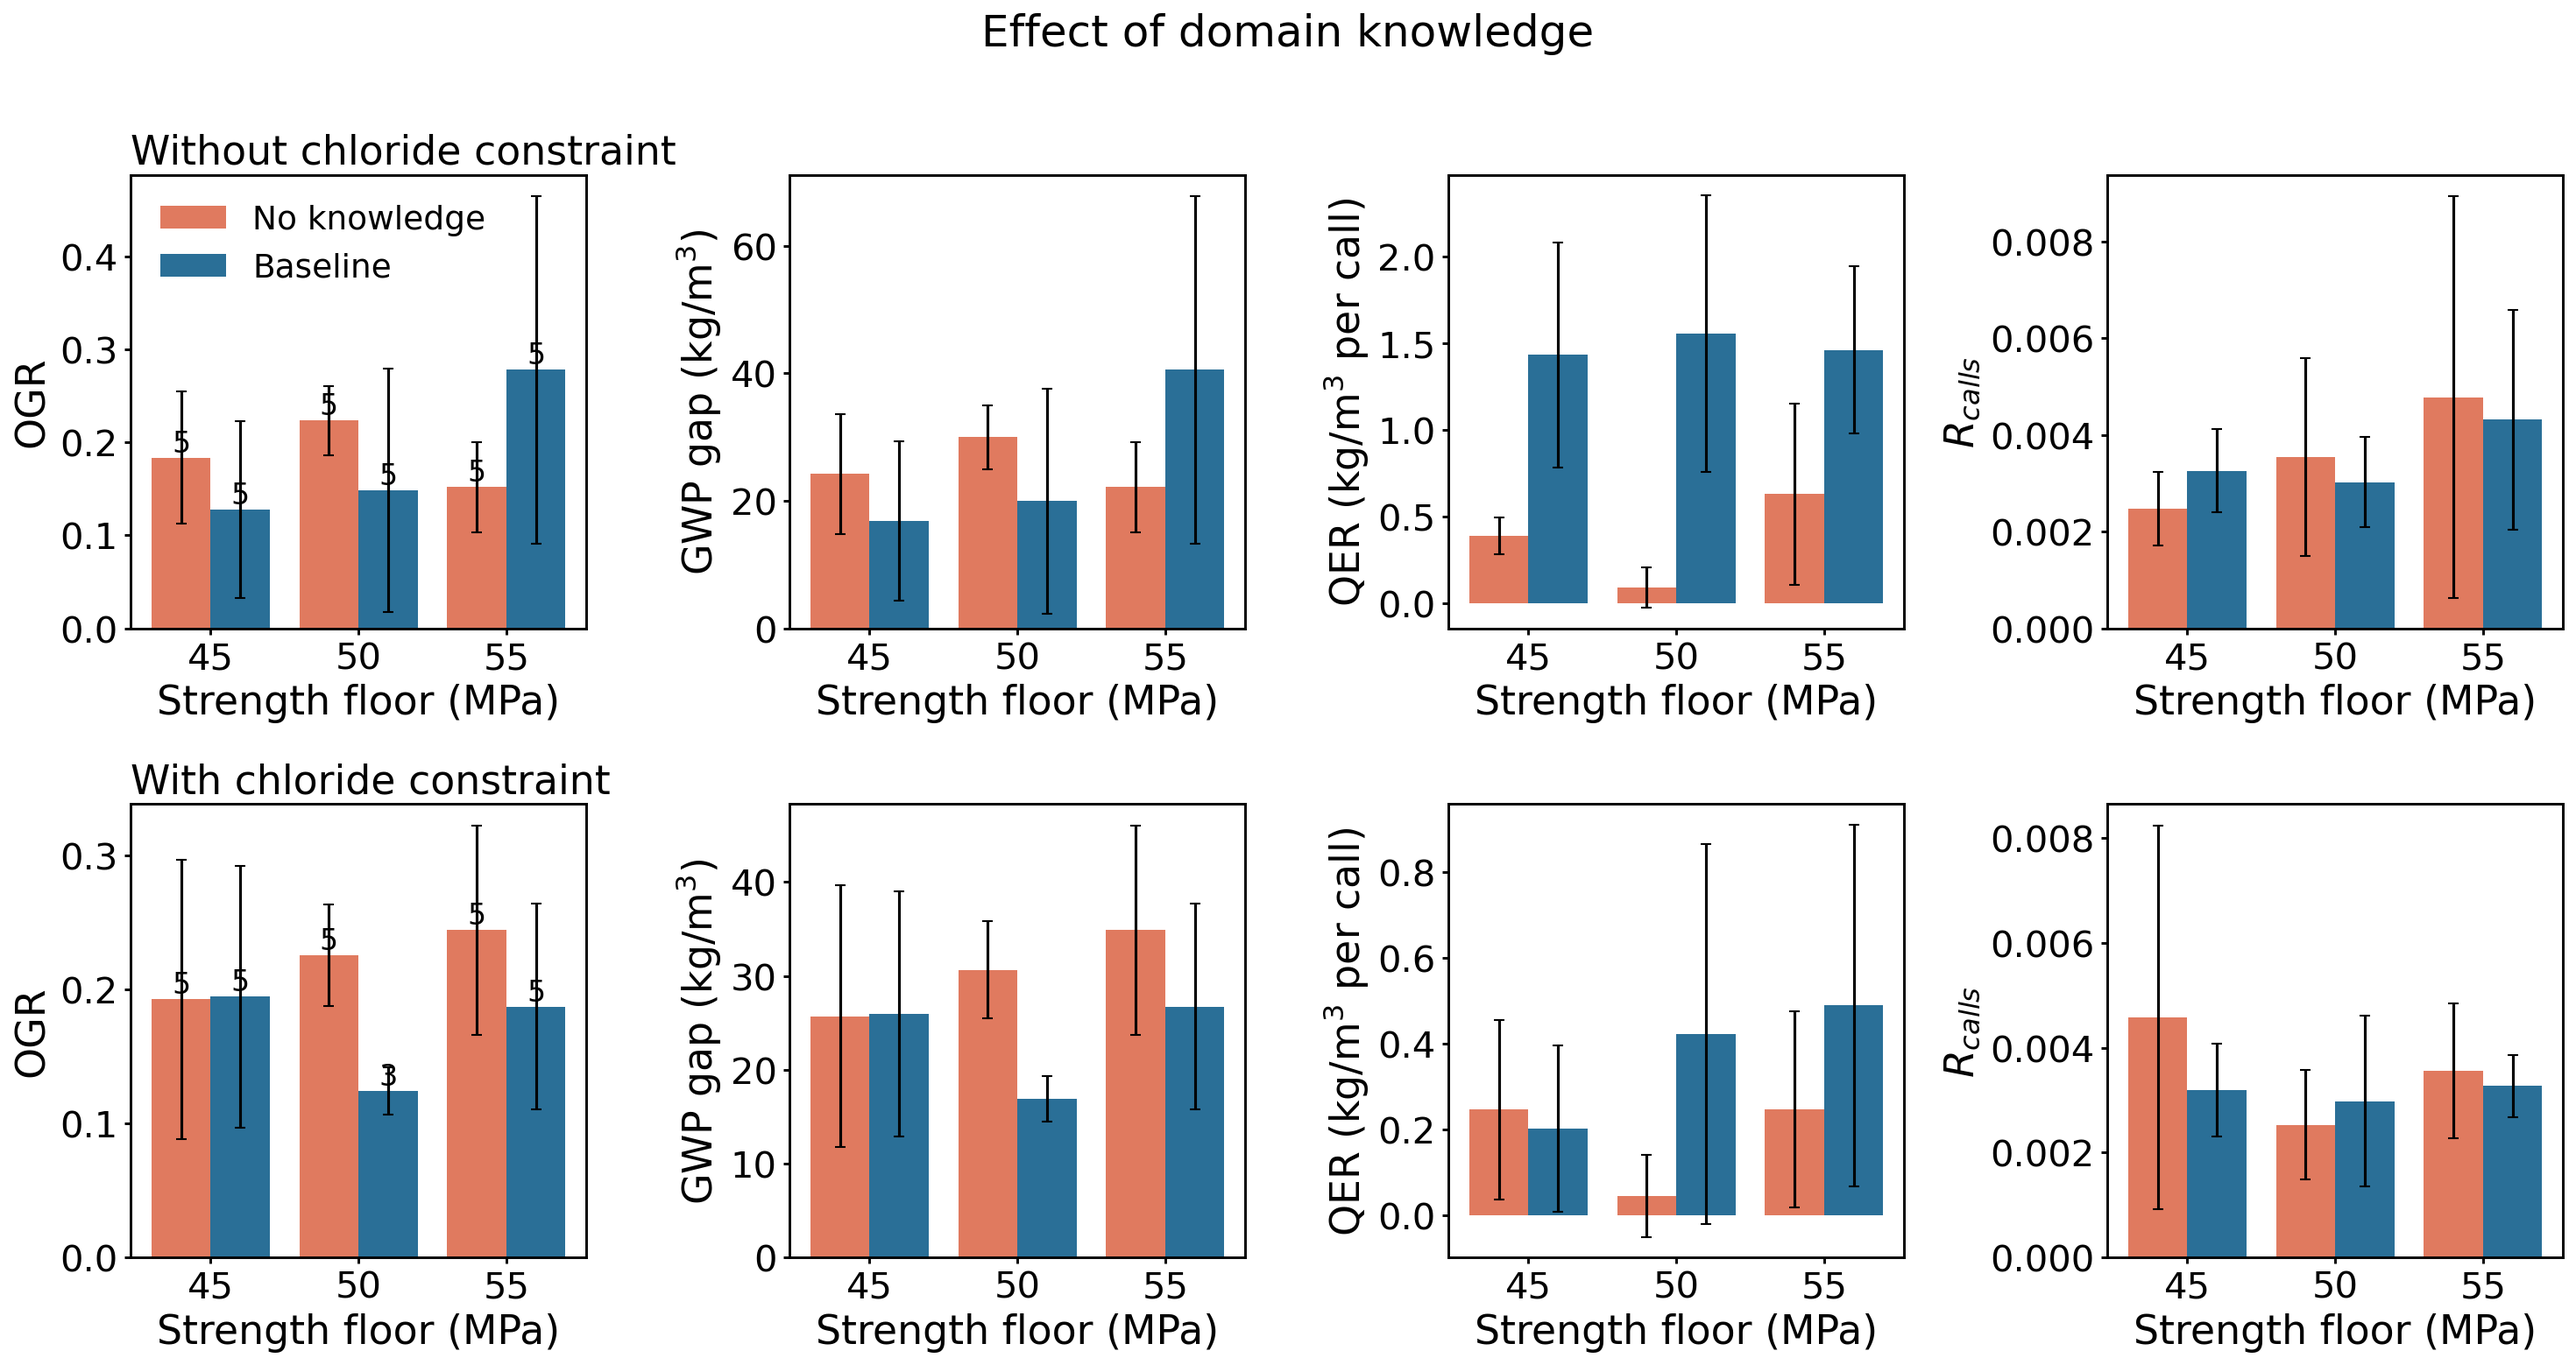
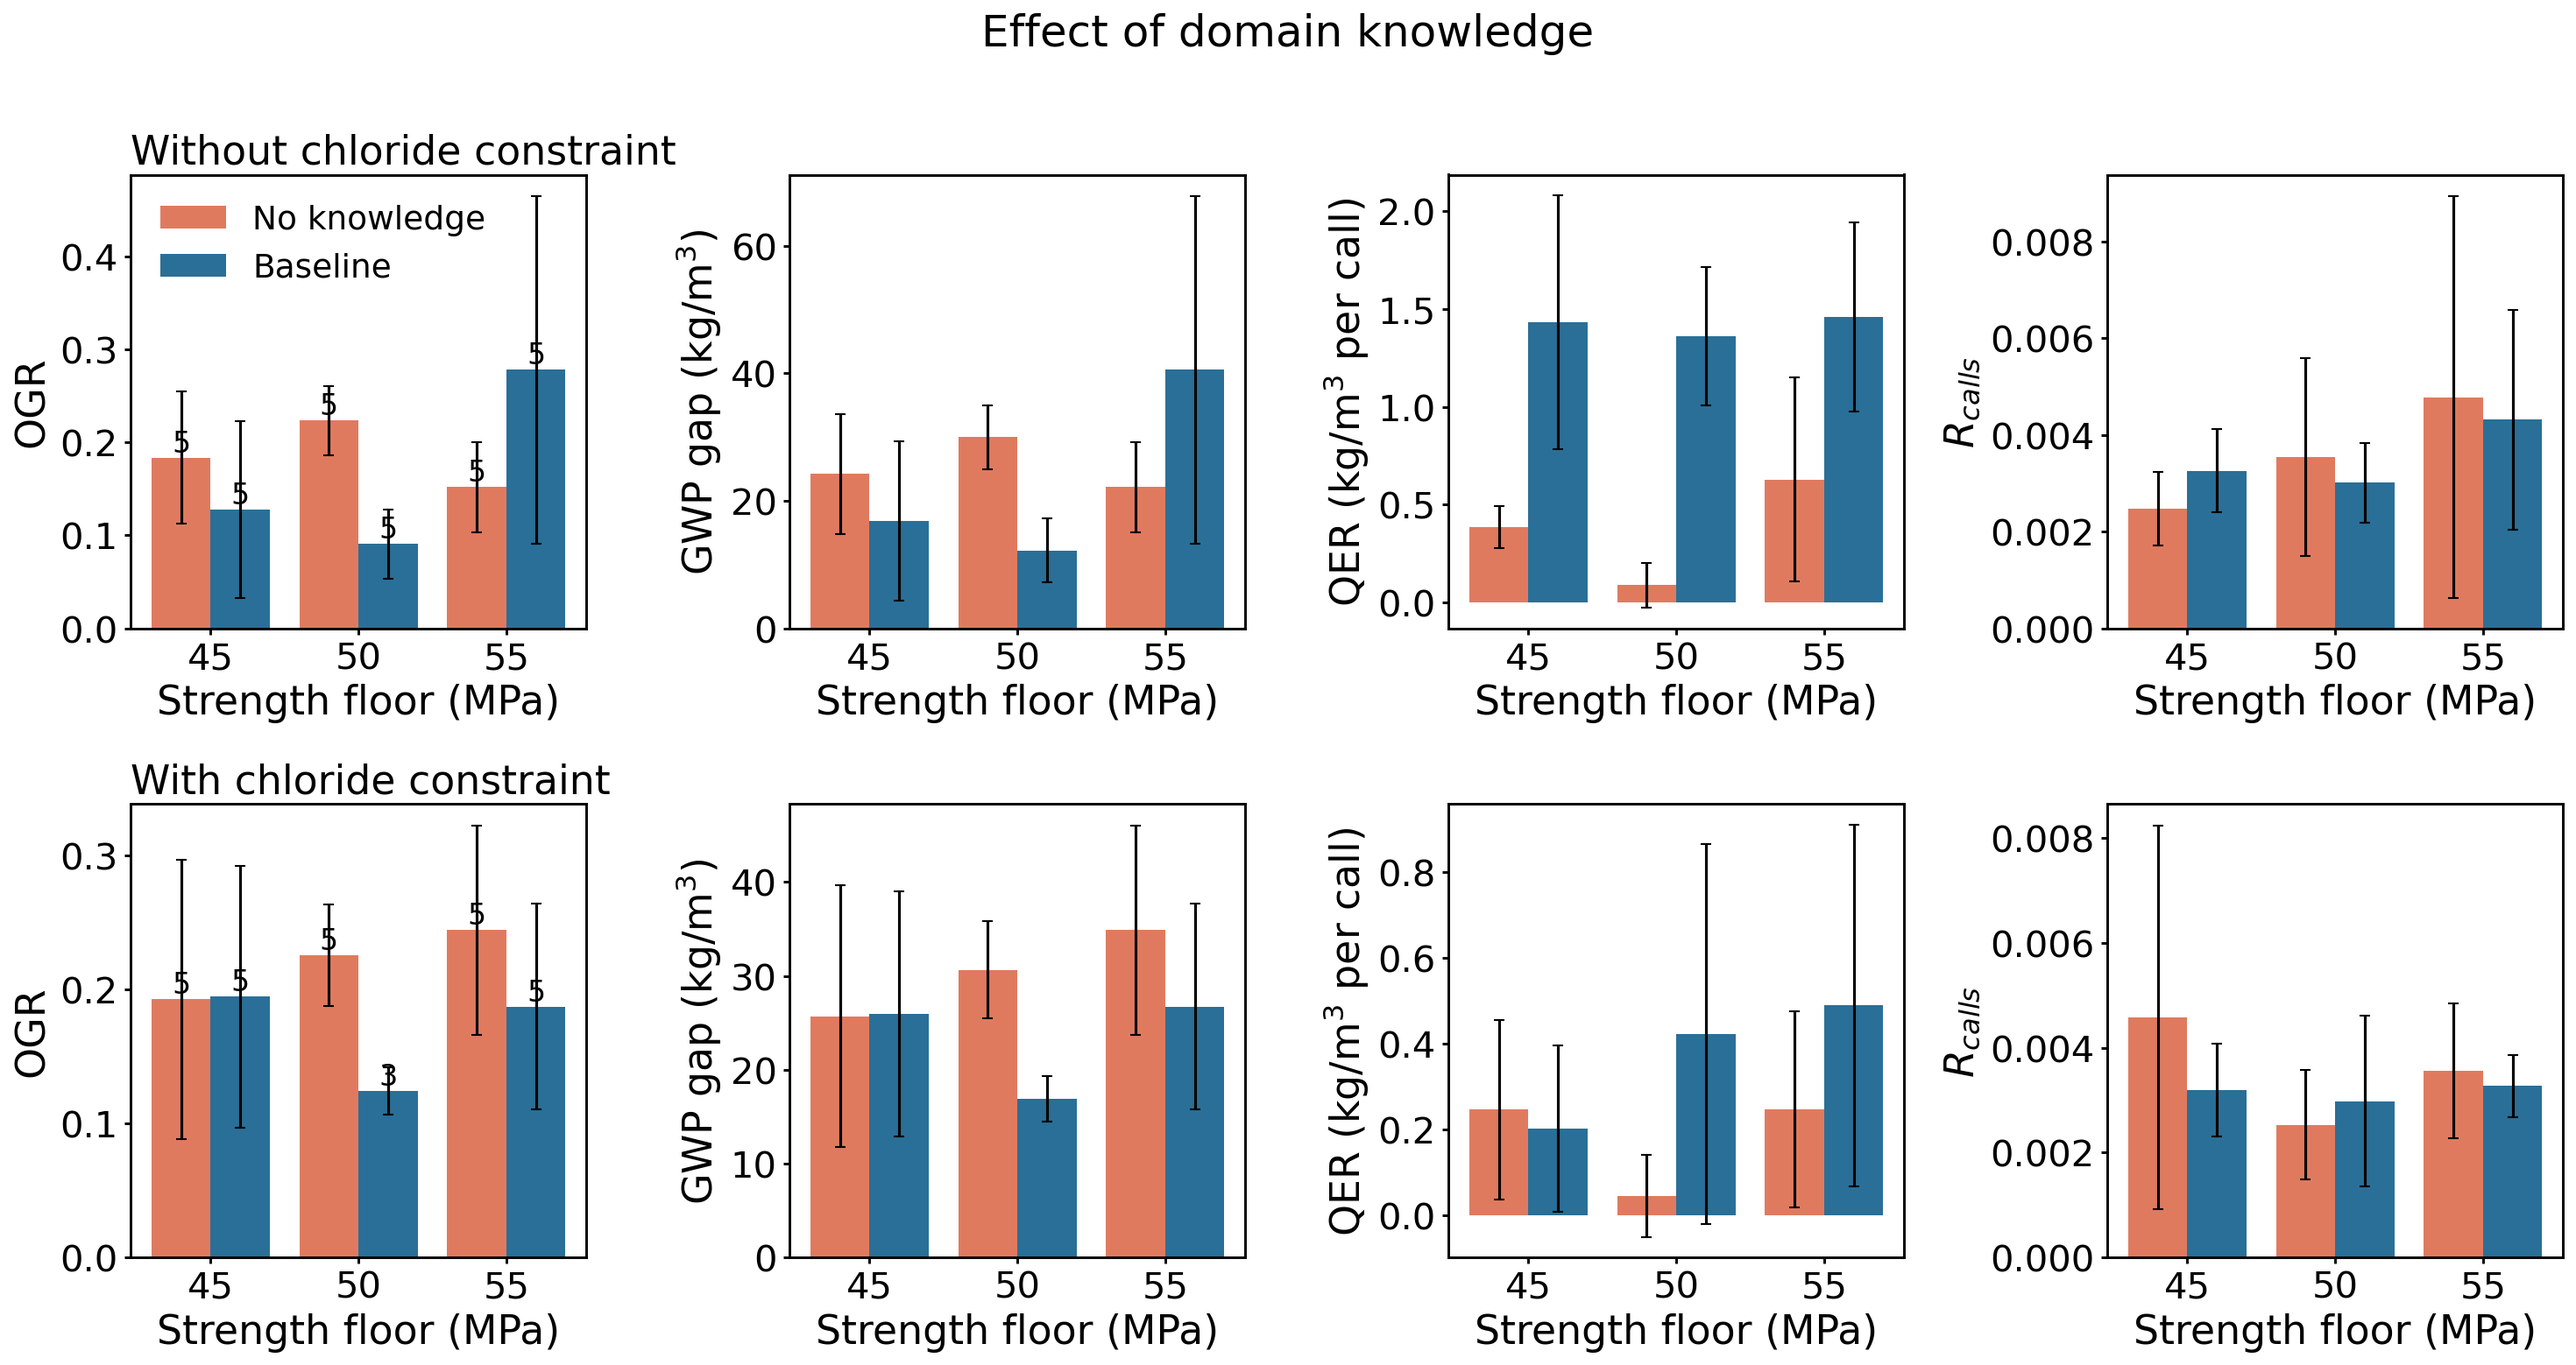
Use runs 3-7 for the (50 MPa, baseline) cell in the figures; document the selection

diff --git a/utils/make_figures.py b/utils/make_figures.py
@@ -41,7 +41,13 @@ GWP_UNIT = "kg CO$_2$-eq/m$^3$"
 
 def load_runs():
     df = pd.read_csv(os.path.join(RES, "summary", "all_runs.csv"))
-    return df[df["run"] <= 5]      # pre-specified n = 5; extra runs are exploratory
+    # Run selection: n = 5 per cell (runs 1-5), except (s50_nodur, baseline) where runs 3-7 are used.
+    override = {("s50_nodur", "baseline"): [3, 4, 5, 6, 7]}
+    keep = df["run"] <= 5
+    for (scn, meth), runs in override.items():
+        cell = (df["scenario"] == scn) & (df["method"] == meth)
+        keep = (keep & ~cell) | (cell & df["run"].isin(runs))
+    return df[keep]
 
 
 def bars(df, methods, title, fname, scenarios_sets):

diff --git a/docs/EXPERIMENTS.md b/docs/EXPERIMENTS.md
@@ -18,6 +18,11 @@ new constraints; older runs were deleted. Data, constraints and surrogates: see 
 - Metrics: OGR, QER, MCE, Rcalls (= surrogate evaluations / 20,000). Cost columns (API calls, prompt/completion tokens, LLM time)
   are stored per run; Rcalls does NOT include LLM inference cost.
 
+## Run selection
+Each (scenario, method) cell has runs 1-5. The cell (50 MPa, no chloride constraint, baseline) was run 7 times; the figures and
+tables use runs 3-7 for this cell (set in `utils/make_figures.py`, `load_runs`). Runs 1 and 2 stay in `results/llm/` and in
+`results/summary/all_runs.csv`. All 7 runs: OGR 0.128 +- 0.113; runs 3-7: 0.091 +- 0.037; run 2 stopped after 8 feasible iterations.
+
 ## Layout
 `results/ga/<scenario>/`, `results/llm/<scenario>/<method>/run_<k>/` (config.json, trajectory.csv = feasible iterations,
 attempts.csv = all proposals, metrics.json, report.txt), `results/summary/` (all_runs.csv, mean_std.csv),
